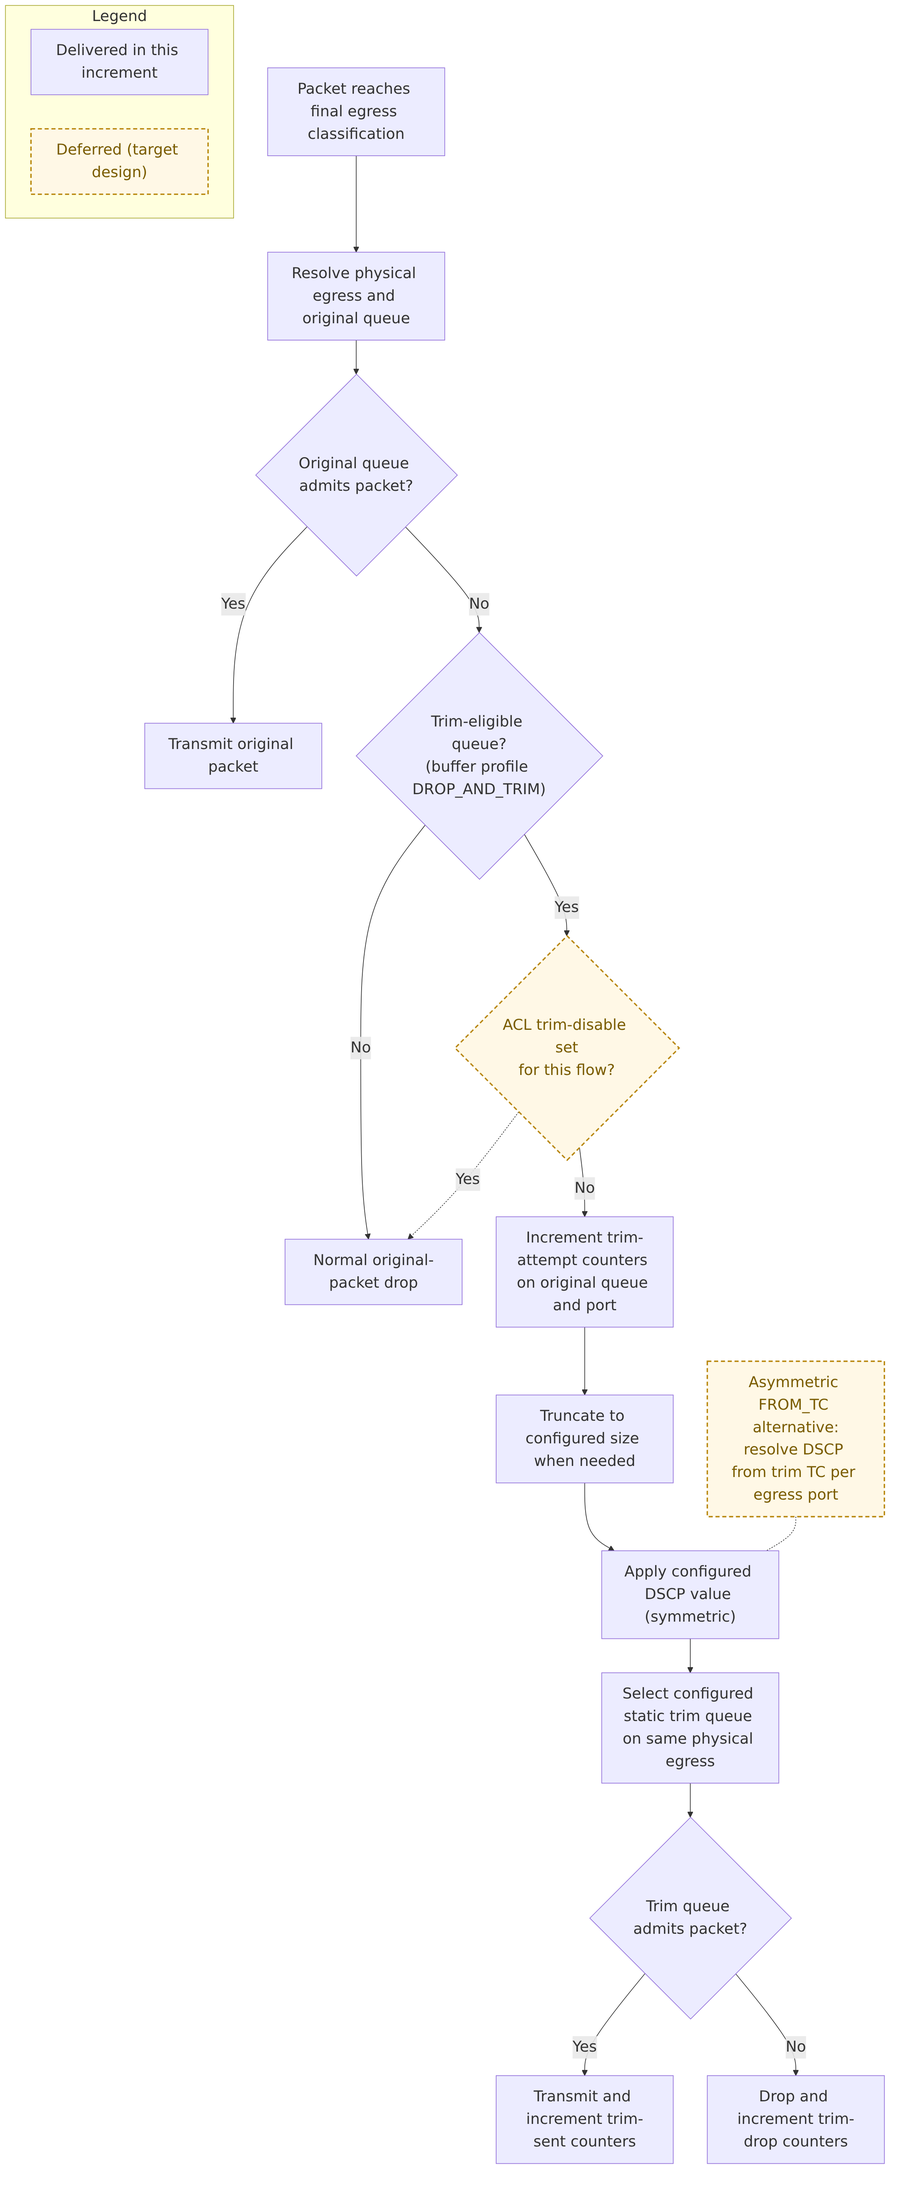
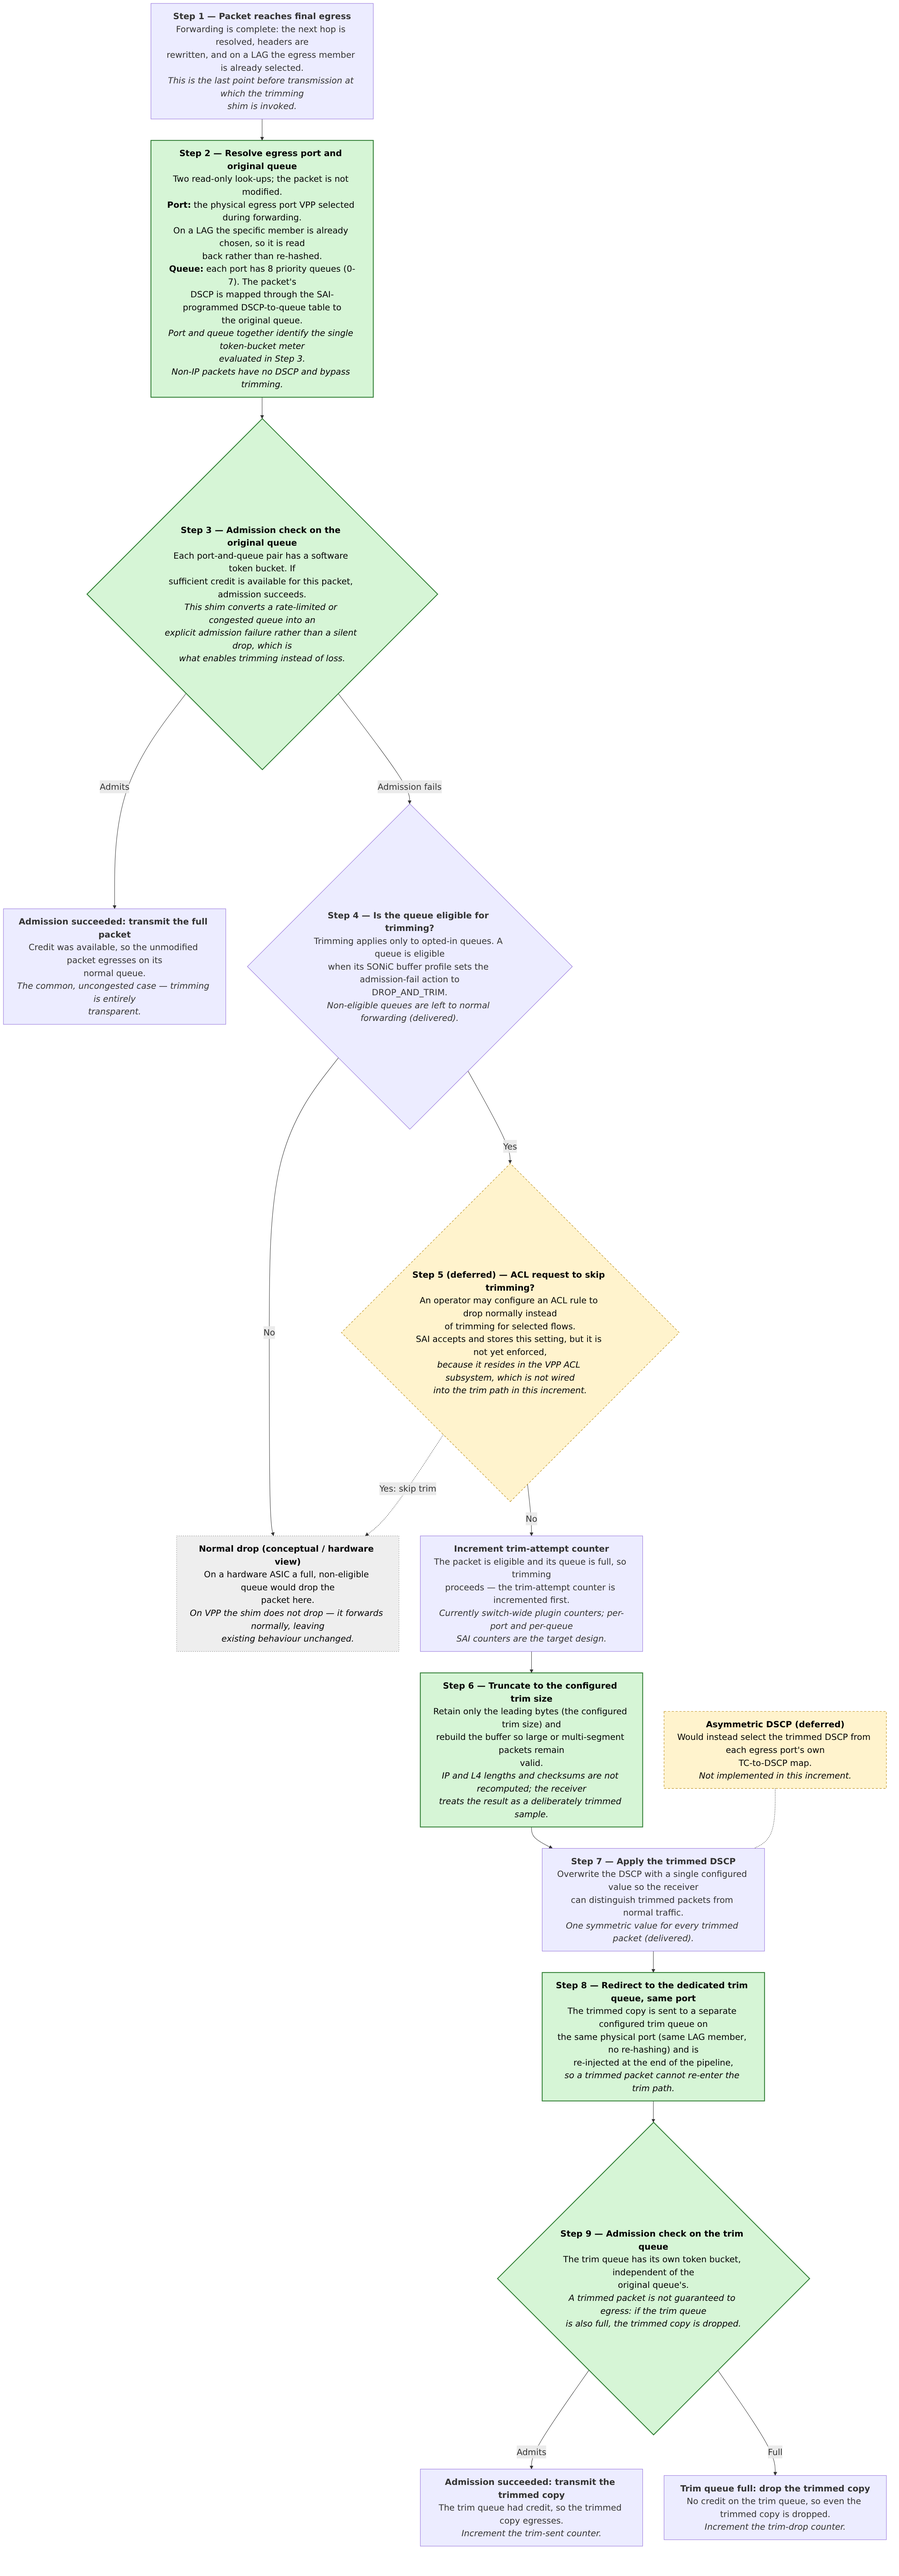
doc(vpp): use step-annotated dataplane flow diagram in packet-trimming HLD
Replace the terse §6.2 dataplane diagram with a step-numbered version whose
blocks carry inline explanations (Step 1-9), keeping the same delivered vs.
deferred color coding (green = delivered, dashed amber = deferred target
design, grey dashed = conceptual/hardware view). Remove the width attribute so
the annotated diagram renders at readable size, and update the alt-text and
legend caption to match.

diff --git a/doc/vpp/vpp-packet-trimming-HLD.md b/doc/vpp/vpp-packet-trimming-HLD.md
@@ -273,9 +273,11 @@ counter sourcing are deferred.
 ### 6.2 Dataplane Flow
 
 <p align="center">
-  <img src="images/packet-trimming-dataplane-flow.png" width="560"
-       alt="Dataplane flow: after a packet reaches final egress classification, the physical egress and original queue are resolved and the original queue is checked for admission. If it admits, the original packet is transmitted. If admission fails, the queue is checked for trim eligibility (buffer profile DROP_AND_TRIM); non-eligible queues take the normal original-packet path. Eligible queues pass through a deferred (dashed) ACL trim-disable gate, then trim-attempt counters increment, the packet is truncated to the configured size, the configured symmetric DSCP value is applied (with a deferred, dashed asymmetric FROM_TC alternative that resolves DSCP from a trim TC per egress port), and the configured static trim queue on the same physical egress is selected; if that trim queue admits, the packet is transmitted and trim-sent counters increment, otherwise it is dropped and trim-drop counters increment. Dashed amber nodes are deferred target-design elements per the legend.">
+  <img src="images/packet-trimming-dataplane-flow.png"
+       alt="Step-numbered dataplane flow. Step 1: the packet reaches final egress with forwarding complete and, on a LAG, the egress member already selected. Step 2: two read-only look-ups resolve the egress port (read back from the forwarding decision, not re-hashed) and the original queue (DSCP mapped through the SAI-programmed DSCP-to-queue table); together they identify one software token-bucket meter, and non-IP packets bypass trimming. Step 3: admission is checked against that token bucket; if it admits, the full packet is transmitted on its normal queue. If admission fails, Step 4 checks trim eligibility (buffer profile DROP_AND_TRIM); non-eligible queues take the normal path. Eligible queues pass through a deferred (dashed amber) Step 5 ACL trim-disable gate, then increment trim-attempt counters, Step 6 truncates the packet to the configured trim size, Step 7 applies the single configured symmetric DSCP (with a deferred, dashed amber asymmetric per-port TC-to-DSCP alternative), and Step 8 redirects the trimmed copy to the configured static trim queue on the same physical port, re-injected at the end of the pipeline so it cannot be trimmed again. Step 9 checks admission on the trim queue's own token bucket; if it admits, the trimmed copy is transmitted and trim-sent counters increment, otherwise it is dropped and trim-drop counters increment. Green nodes are delivered in this increment, dashed amber nodes are deferred target-design elements, and the grey Normal drop node is the conceptual hardware view (the VPP shim forwards instead of dropping).">
 </p>
+
+<p align="center"><sub>Green = delivered this increment &nbsp;·&nbsp; dashed amber = deferred target design &nbsp;·&nbsp; grey dashed = conceptual/hardware view. Each block is annotated with its step and behaviour; open the PNG for full resolution.</sub></p>
 
 This flowchart is the full conceptual design; **dashed amber nodes mark elements
 deferred in this increment** (see the diagram legend). Specifically, the ACL
